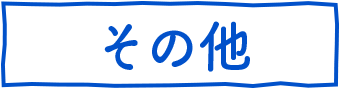
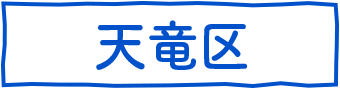
天竜区、市外を追加

Changed region(s): [[0.2647, 0.2222, 0.7353, 0.8]]

diff --git a/dist/build.js b/dist/build.js
@@ -8583,6 +8583,15 @@ var Works = function (_React$Component) {
         height: '45',
         name: '7',
         alt: 'img'
+      })), _react2.default.createElement('a', {
+        href: '#',
+        onClick: this.getCategorySearch.bind(this)
+      }, _react2.default.createElement('img', {
+        src: IMG + 'loc/banner08.png',
+        width: '170',
+        height: '45',
+        name: '8',
+        alt: 'img'
       })))), _react2.default.createElement('div', { className: 'pf-Works-Time' }, _react2.default.createElement('div', null, _react2.default.createElement('img', {
         src: IMG + 'title_time.png',
         width: '120',
@@ -8593,42 +8602,42 @@ var Works = function (_React$Component) {
       }, _react2.default.createElement('img', {
         src: IMG + 'time/banner01.png',
         height: '135',
-        name: '8',
+        name: '9',
         alt: 'img'
       })), _react2.default.createElement('a', { href: '#',
         onClick: this.getCategorySearch.bind(this)
       }, _react2.default.createElement('img', {
         src: IMG + 'time/banner02.png',
         height: '135',
-        name: '9',
+        name: '10',
         alt: 'img'
       })), _react2.default.createElement('a', { href: '#',
         onClick: this.getCategorySearch.bind(this)
       }, _react2.default.createElement('img', {
         src: IMG + 'time/banner03.png',
         height: '135',
-        name: '10',
+        name: '11',
         alt: 'img'
       })), _react2.default.createElement('br', null), _react2.default.createElement('a', { href: '#',
         onClick: this.getCategorySearch.bind(this)
       }, _react2.default.createElement('img', {
         src: IMG + 'time/banner04.png',
         height: '120',
-        name: '11',
+        name: '12',
         alt: 'img'
       })), _react2.default.createElement('a', { href: '#',
         onClick: this.getCategorySearch.bind(this)
       }, _react2.default.createElement('img', {
         src: IMG + 'time/banner05.png',
         height: '120',
-        name: '12',
+        name: '13',
         alt: 'img'
       })), _react2.default.createElement('a', { href: '#',
         onClick: this.getCategorySearch.bind(this)
       }, _react2.default.createElement('img', {
         src: IMG + 'time/banner06.png',
         height: '120',
-        name: '13',
+        name: '14',
         alt: 'img'
       })))), _react2.default.createElement('div', { className: 'pf-Works-Cat' }, _react2.default.createElement('div', null, _react2.default.createElement('img', {
         src: IMG + 'title_cat.png',
@@ -8640,35 +8649,35 @@ var Works = function (_React$Component) {
       }, _react2.default.createElement('img', {
         src: IMG + 'cat/banner01.png',
         height: '120',
-        name: '14',
+        name: '15',
         alt: 'img'
       })), _react2.default.createElement('a', { href: '#',
         onClick: this.getCategorySearch.bind(this)
       }, _react2.default.createElement('img', {
         src: IMG + 'cat/banner02.png',
         height: '120',
-        name: '15',
+        name: '16',
         alt: 'img'
       })), _react2.default.createElement('a', { href: '#',
         onClick: this.getCategorySearch.bind(this)
       }, _react2.default.createElement('img', {
         src: IMG + 'cat/banner03.png',
         height: '120',
-        name: '16',
+        name: '17',
         alt: 'img'
       })), _react2.default.createElement('a', { href: '#',
         onClick: this.getCategorySearch.bind(this)
       }, _react2.default.createElement('img', {
         src: IMG + 'cat/banner04.png',
         height: '120',
-        name: '17',
+        name: '18',
         alt: 'img'
       })), _react2.default.createElement('a', { href: '#',
         onClick: this.getCategorySearch.bind(this)
       }, _react2.default.createElement('img', {
         src: IMG + 'cat/banner05.png',
         height: '120',
-        name: '18',
+        name: '19',
         alt: 'img'
       }))))), _react2.default.createElement('div', { className: 'pf-Works-List' }, _react2.default.createElement('div', null, _react2.default.createElement('div', { className: 'pf-Works-List-tab' }, '検索結果'), _react2.default.createElement('section', null, _react2.default.createElement('div', null, _react2.default.createElement('a', { href: '/works_detail' }, _react2.default.createElement('img', {
         src: IMG + 'list_column_left.png',
@@ -8929,8 +8938,8 @@ var Column = function (_React$Component2) {
 
       var data = this.props.data;
 
-      return _react2.default.createElement('a', {
-        href: '/works_detail/' + data.id,
+      return _react2.default.createElement(_reactRouter.Link, {
+        to: '/works_detail/' + data.id,
         ref: 'el'
       }, _react2.default.createElement('li', { className: 'pf-Works-List-column' }, _react2.default.createElement('div', { className: 'pf-Works-List-column-head' }, _react2.default.createElement('p', { className: 'overflow' }, data.title), _react2.default.createElement('img', {
         src: IMG + 'list_btn_detail.png',
@@ -9157,7 +9166,7 @@ var WorksDetail = function (_React$Component) {
       }, modal[0].button), 'もしくは…', _react2.default.createElement('button', {
         name: 'modalMail',
         onClick: this.enableModal.bind(this)
-      }, modal[1].button))), _react2.default.createElement('div', { className: 'pf-Works-Detail-column' }, _react2.default.createElement('div', { className: 'pf-Works-Detail-column-head' }, _react2.default.createElement('p', null, data.title)), _react2.default.createElement('div', { className: 'pf-Works-Detail-column-section' }, _react2.default.createElement('div', null, _react2.default.createElement('span', null, '時給: ', data.abbr_wage, '円'), _react2.default.createElement('span', null, data.abbr_time)), _react2.default.createElement('div', null, _react2.default.createElement('dl', null, _react2.default.createElement('dt', null, '仕事の内容'), _react2.default.createElement('dd', null, data.detail)), _react2.default.createElement('dl', null, _react2.default.createElement('dt', null, '勤務地'), _react2.default.createElement('dd', null, data.location)), _react2.default.createElement('dl', null, _react2.default.createElement('dt', null, '時間'), _react2.default.createElement('dd', null, data.time)), _react2.default.createElement('dl', null, _react2.default.createElement('dt', null, '休憩時間'), _react2.default.createElement('dd', null, data.break)), _react2.default.createElement('dl', null, _react2.default.createElement('dt', null, '給与'), _react2.default.createElement('dd', null, data.wage)), _react2.default.createElement('dl', null, _react2.default.createElement('dt', null, '日数'), _react2.default.createElement('dd', null, data.days)), _react2.default.createElement('dl', null, _react2.default.createElement('dt', null, '休日'), _react2.default.createElement('dd', null, data.holidays)), _react2.default.createElement('dl', null, _react2.default.createElement('dt', null, '雇用形態'), _react2.default.createElement('dd', null, data.type)), _react2.default.createElement('dl', null, _react2.default.createElement('dt', null, '雇用期間'), _react2.default.createElement('dd', null, data.term)), _react2.default.createElement('dl', null, _react2.default.createElement('dt', null, '学歴'), _react2.default.createElement('dd', null, data.career)), _react2.default.createElement('dl', null, _react2.default.createElement('dt', null, '職場の雰囲気'), _react2.default.createElement('dd', null, data.selling)), _react2.default.createElement('dl', null, _react2.default.createElement('dt', null, '資格'), _react2.default.createElement('dd', null, data.cert)), _react2.default.createElement('dl', null, _react2.default.createElement('dt', null, '備考'), _react2.default.createElement('dd', null, data.desc))))))), _react2.default.createElement('div', { className: 'pf-Works-Detail-footer' }, _react2.default.createElement('a', { href: '/works' }, _react2.default.createElement('button', null, '戻る'))), _react2.default.createElement(_WorksEntry2.default, {
+      }, modal[1].button))), _react2.default.createElement('div', { className: 'pf-Works-Detail-column' }, _react2.default.createElement('div', { className: 'pf-Works-Detail-column-head' }, _react2.default.createElement('p', null, data.title)), _react2.default.createElement('div', { className: 'pf-Works-Detail-column-section' }, _react2.default.createElement('div', null, _react2.default.createElement('span', null, '時給: ', data.abbr_wage, '円'), _react2.default.createElement('span', null, data.abbr_time)), _react2.default.createElement('div', null, _react2.default.createElement('dl', null, _react2.default.createElement('dt', null, '仕事の内容'), _react2.default.createElement('dd', null, data.detail)), _react2.default.createElement('dl', null, _react2.default.createElement('dt', null, '勤務地'), _react2.default.createElement('dd', null, data.location)), _react2.default.createElement('dl', null, _react2.default.createElement('dt', null, '時間'), _react2.default.createElement('dd', null, data.time)), _react2.default.createElement('dl', null, _react2.default.createElement('dt', null, '休憩時間'), _react2.default.createElement('dd', null, data.break)), _react2.default.createElement('dl', null, _react2.default.createElement('dt', null, '給与'), _react2.default.createElement('dd', null, data.wage)), _react2.default.createElement('dl', null, _react2.default.createElement('dt', null, '日数'), _react2.default.createElement('dd', null, data.days)), _react2.default.createElement('dl', null, _react2.default.createElement('dt', null, '休日'), _react2.default.createElement('dd', null, data.holidays)), _react2.default.createElement('dl', null, _react2.default.createElement('dt', null, '雇用形態'), _react2.default.createElement('dd', null, data.type)), _react2.default.createElement('dl', null, _react2.default.createElement('dt', null, '雇用期間'), _react2.default.createElement('dd', null, data.term)), _react2.default.createElement('dl', null, _react2.default.createElement('dt', null, '学歴'), _react2.default.createElement('dd', null, data.career)), _react2.default.createElement('dl', null, _react2.default.createElement('dt', null, '職場の雰囲気'), _react2.default.createElement('dd', null, data.selling)), _react2.default.createElement('dl', null, _react2.default.createElement('dt', null, '資格'), _react2.default.createElement('dd', null, data.cert)), _react2.default.createElement('dl', null, _react2.default.createElement('dt', null, '備考'), _react2.default.createElement('dd', null, data.desc))))))), _react2.default.createElement('div', { className: 'pf-Works-Detail-footer' }, _react2.default.createElement(_reactRouter.Link, { to: '/works' }, _react2.default.createElement('button', null, '戻る'))), _react2.default.createElement(_WorksEntry2.default, {
         key: '0',
         id: 'modalTel',
         body: modal[0].body,

diff --git a/src/pages/front/Works.jsx b/src/pages/front/Works.jsx
@@ -154,6 +154,19 @@ export default class Works extends React.Component {
                   alt="img"
                 />
               </a>
+
+              <a
+                href="#"
+                onClick={this.getCategorySearch.bind(this)}
+              >
+                <img
+                  src={IMG + 'loc/banner08.png'}
+                  width="170"
+                  height="45"
+                  name="8"
+                  alt="img"
+                />
+              </a>
             </div>
           </div>
 
@@ -172,7 +185,7 @@ export default class Works extends React.Component {
                 <img
                   src={IMG + 'time/banner01.png'}
                   height="135"
-                  name="8"
+                  name="9"
                   alt="img"
                   />
               </a>
@@ -183,7 +196,7 @@ export default class Works extends React.Component {
                 <img
                   src={IMG + 'time/banner02.png'}
                   height="135"
-                  name="9"
+                  name="10"
                   alt="img"
                   />
               </a>
@@ -194,7 +207,7 @@ export default class Works extends React.Component {
                 <img
                   src={IMG + 'time/banner03.png'}
                   height="135"
-                  name="10"
+                  name="11"
                   alt="img"
                   />
               </a>
@@ -207,7 +220,7 @@ export default class Works extends React.Component {
                 <img
                   src={IMG + 'time/banner04.png'}
                   height="120"
-                  name="11"
+                  name="12"
                   alt="img"
                   />
               </a>
@@ -218,7 +231,7 @@ export default class Works extends React.Component {
                 <img
                   src={IMG + 'time/banner05.png'}
                   height="120"
-                  name="12"
+                  name="13"
                   alt="img"
                   />
               </a>
@@ -229,7 +242,7 @@ export default class Works extends React.Component {
                 <img
                   src={IMG + 'time/banner06.png'}
                   height="120"
-                  name="13"
+                  name="14"
                   alt="img"
                   />
               </a>
@@ -251,7 +264,7 @@ export default class Works extends React.Component {
                 <img
                   src={IMG + 'cat/banner01.png'}
                   height="120"
-                  name="14"
+                  name="15"
                   alt="img"
                   />
               </a>
@@ -262,7 +275,7 @@ export default class Works extends React.Component {
                 <img
                   src={IMG + 'cat/banner02.png'}
                   height="120"
-                  name="15"
+                  name="16"
                   alt="img"
                   />
               </a>
@@ -273,7 +286,7 @@ export default class Works extends React.Component {
                 <img
                   src={IMG + 'cat/banner03.png'}
                   height="120"
-                  name="16"
+                  name="17"
                   alt="img"
                   />
               </a>
@@ -284,7 +297,7 @@ export default class Works extends React.Component {
                 <img
                   src={IMG + 'cat/banner04.png'}
                   height="120"
-                  name="17"
+                  name="18"
                   alt="img"
                   />
               </a>
@@ -295,7 +308,7 @@ export default class Works extends React.Component {
                 <img
                   src={IMG + 'cat/banner05.png'}
                   height="120"
-                  name="18"
+                  name="19"
                   alt="img"
                   />
               </a>
@@ -574,8 +587,8 @@ class Column extends React.Component {
     let data = this.props.data;
 
     return (
-      <a
-        href={'/works_detail/' + data.id}
+      <Link
+        to={'/works_detail/' + data.id}
         ref='el'
         >
         <li className="pf-Works-List-column">
@@ -603,7 +616,7 @@ class Column extends React.Component {
             <span>{data.abbr_time}</span>
           </div>
         </li>
-      </a>
+      </Link>
     );
   }
 

diff --git a/src/pages/front/WorksDetail.jsx b/src/pages/front/WorksDetail.jsx
@@ -263,9 +263,9 @@ export default class WorksDetail extends React.Component {
             <button>似た仕事を検索</button>
           </a>
           */}
-          <a href="/works">
+          <Link to="/works">
             <button>戻る</button>
-          </a>
+          </Link>
         </div>
 
         <WorksEntry
